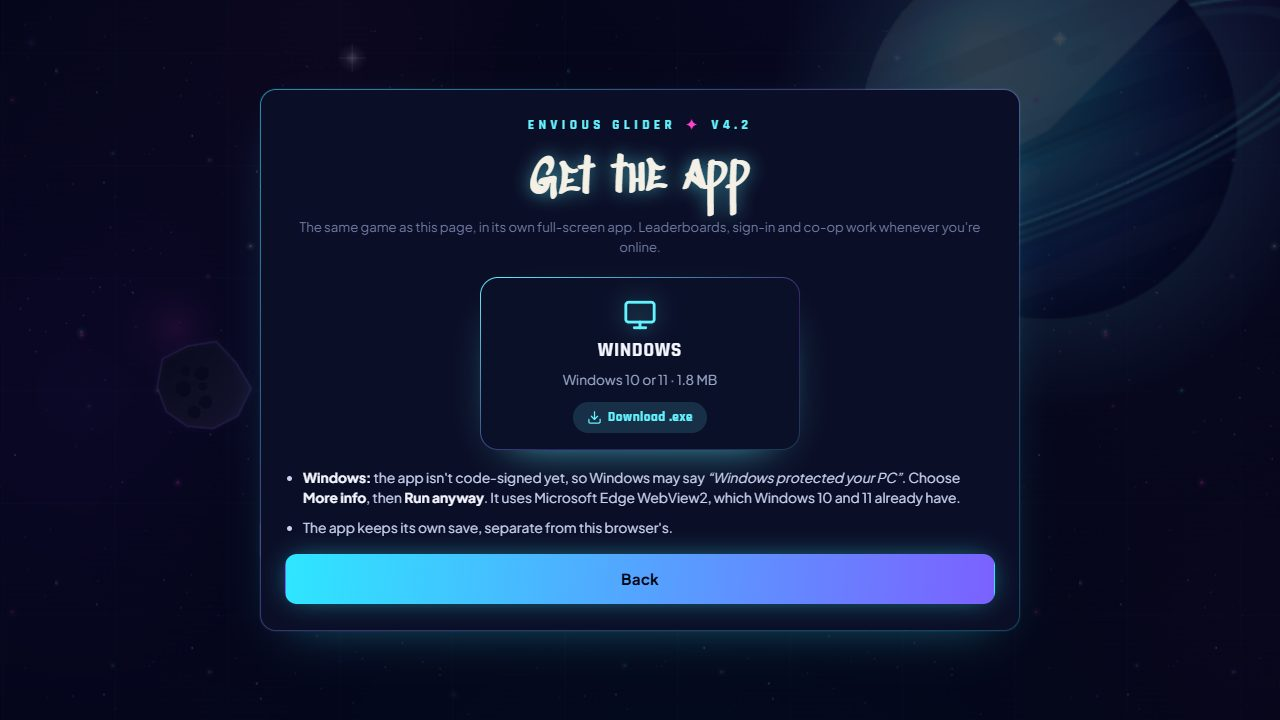
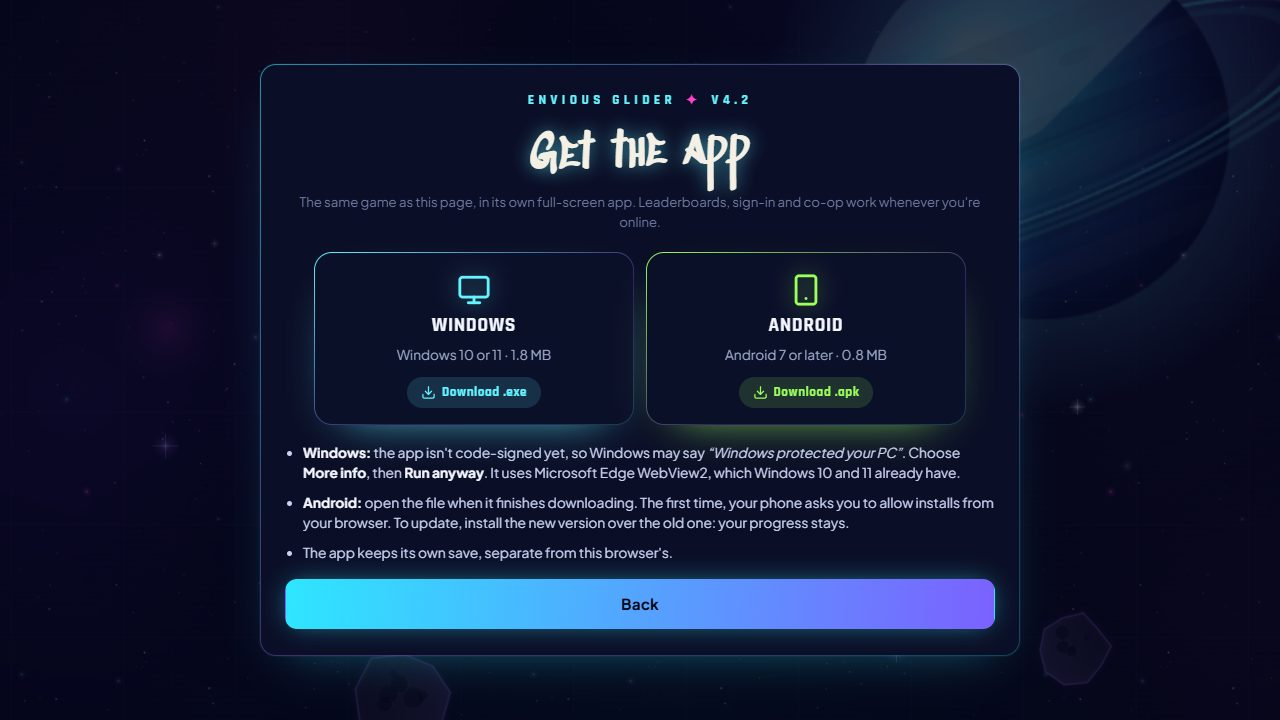
Ascension progress: hats and Sigils, the Android app, updated screenshots

diff --git a/assets/game/docs/ASCENSION_PROGRESS.md b/assets/game/docs/ASCENSION_PROGRESS.md
@@ -19,9 +19,11 @@ tested, **Partial** means some of it shipped, **Next** means not started.
 | Achievements and cosmetics | **Done** | 34 achievements (`progress.js`) across Combat, Builds, Mastery, Bosses and Progress. They unlock suits, visors, jetpack trails, weapon finishes, titles, badges (pin up to 3) and boss victory effects. The Profile screen has Achievements and a Locker with a live preview |
 | Run events | **Done** | Cosmic Cache, Corrupted Armory (6 relics), Sin Altar and Elite Ambush (`events.js`, `balance.events`, `balance.relics`). At most one per chapter from chapter 2 |
 | Harder bosses and robots | **Done** | The user asked for harder bosses and tougher robots mid-phase. Boss health, attack pace, shots and minions ramp from Sloth to Envy (`balance.threat`). Bosses have *resolve*, a damage-rate cap so stacked builds can't delete them. Robots get more health per wave, waves are bigger, and elites arrive earlier. Gluttony's slam stops growing at 1.3×, so it can always be outrun |
-| Saves | **Done** | Save version 2 with `migrate()`: 4.1 saves keep everything. Earlier Ladder wins open Boss Rush and credit the matching achievements |
+| Saves | **Done** | Save version 3 with `migrate()`: 4.1 saves keep everything. Earlier Ladder wins open Boss Rush and credit the matching achievements, and achievements you already have pay their Sigils |
+| Hats and Sigils | **Done** | Nine hats to buy with Sigils, a rare currency, in the Locker (try one on in the preview first). Swap between owned hats any time; the crown is free and the default, and "No hat" is an option. Co-op teammates see your hat |
 | Leaderboards | **Partial** | Ladder runs post as before (difficulty recorded). Boss Rush is scored and stored separately on the device but **not posted online**: that needs a new Supabase table/function outside this repo, so Rush scores can't mix into the Ladder board |
-| Download the app | **Done** | A Download button on the game menu (website only; hidden inside the apps) opens "Get the app": the Windows app (`assets/game/download/EnviousGlider.exe`) with install notes, your own platform listed first, and an Add to Home Screen tip on iPhone and iPad. The Android card stays hidden until an APK is in that folder |
+| Download the app | **Done** | A Download button on the game menu (website only; hidden inside the apps) opens "Get the app": the Windows app and the Android app (`assets/game/download/`) with install notes, your own platform listed first, and an Add to Home Screen tip on iPhone and iPad |
+| Android app | **Partial** | `EnviousGlider.apk` (Android 7+, landscape, 0.8 MB): the game's files ship inside it and are served to a WebView as https://enviousgluttony.com/game/, like the Windows app, so saves, sign-in, the leaderboard and co-op work as on the site. Back closes panels and pauses; leaving the app pauses a solo run. Built and signed (APK Signature Scheme v2 and v3) and checked with Google's tools, but **not yet run on a phone** |
 | Human playtesting | **Next** | Everything below is simulated |
 
 ### Weapon evolutions
@@ -91,6 +93,35 @@ tested, **Partial** means some of it shipped, **Next** means not started.
 - **Display:** they show in the Locker. Each locked item names the achievement that unlocks it.
 - **Co-op:** teammates see your suit. Other cosmetics are local only.
 
+### Hats and Sigils
+
+Sigils (`balance.sigils`) never drop in debug runs. Payouts are multiplied by difficulty (Normal ×1, Hard ×2, Nightmare ×3) except achievements:
+
+| Source | Sigils (Normal) |
+| --- | --- |
+| Each sin boss beaten on the Ladder (endless laps too) | 1 |
+| Beating the Ladder | 5 |
+| Clearing Boss Rush | 3, plus 3 for an S rank or 1 for an A |
+| Each achievement (once) | 2 |
+
+A Normal Ladder win pays about 12, a Nightmare one about 36. Co-op guests are paid from the host's messages, the same amounts.
+
+| Hat | Price |
+| --- | --- |
+| Crown (default) | Free |
+| No hat | Free |
+| Sloth's Nightcap | 30 |
+| Gluttony's Toque | 40 |
+| Greed's Top Hat | 50 |
+| Lust's Heart Boppers | 50 |
+| Wrath's Horns | 70 |
+| Pride's Laurels | 80 |
+| Envy's Serpent | 100 |
+| Machine Antenna | 120 |
+| Halo | 200 |
+
+![](shots/v42-hats_lineup.png)
+
 ### Run events
 
 - **Cosmic Cache:** a passive cache drifts across mid-wave. Crack it before it leaves for stars or a free rare-or-better Armory item.
@@ -137,13 +168,14 @@ tested, **Partial** means some of it shipped, **Next** means not started.
 
 ### Tests
 
-`?debug=1&tests=1` runs 31 deterministic checks (`tests.js`). They cover:
+`?debug=1&tests=1` runs 40 deterministic checks (`tests.js`). They cover:
 - **Fusions:** offer rules, one per run, and every cap.
 - **Evolutions:** every evolution cap, and that kin shots never retrigger.
 - **Mutations:** caps and minimum wave, plus the Armored multipliers.
 - **Boss resolve:** the damage-rate cap.
 - **Boss Rush:** ranks.
-- **Saves:** 4.1 → v2 migration.
+- **Hats and Sigils:** prices, owning and wearing, no earning in debug runs, and the difficulty multiplier.
+- **Saves:** 4.1 → v3 migration, including Sigils for past achievements.
 
 All pass.
 
@@ -161,6 +193,7 @@ All pass.
 | ![](shots/v42-profile.jpg) Achievements | ![](shots/v42-locker.jpg) Locker |
 | ![](shots/v42-event_corrupt.jpg) Corrupted Armory | ![](shots/v42-event_altar.jpg) Sin Altar |
 | ![](shots/v42-event_ambush.jpg) Elite Ambush | ![](shots/v42-download.jpg) Get the app |
+| ![](shots/v42-hats.jpg) Hats in the Locker (trying one on) | |
 
 ### Known limits
 
@@ -169,6 +202,12 @@ All pass.
 - **Co-op tracking:** a few achievements (boss conditions, Rush clears) are tracked on the host only.
 - **Low-damage builds:** they face long late waves (Bulwark and Patch Bot squads).
 - **Unholy Union and Every Path** span many runs by design. They can't be earned quickly.
+- **Android app:**
+  - Not yet tested on a real phone.
+  - Google sign-in refuses to run inside apps, so sign in with Discord there.
+  - Android's installer warns about apps from outside the Play Store.
+- **Windows app:** not code-signed, so SmartScreen warns on first run.
+- **App signing key:** the Android key (`%USERPROFILE%\.android\envious-glider-release.jks` and its `.pass` file) must be kept. Updates signed with any other key won't install over this version.
 
 ## Phase II — 4.1 "Ascension II": challenge, visual refinement, Greed's music
 
